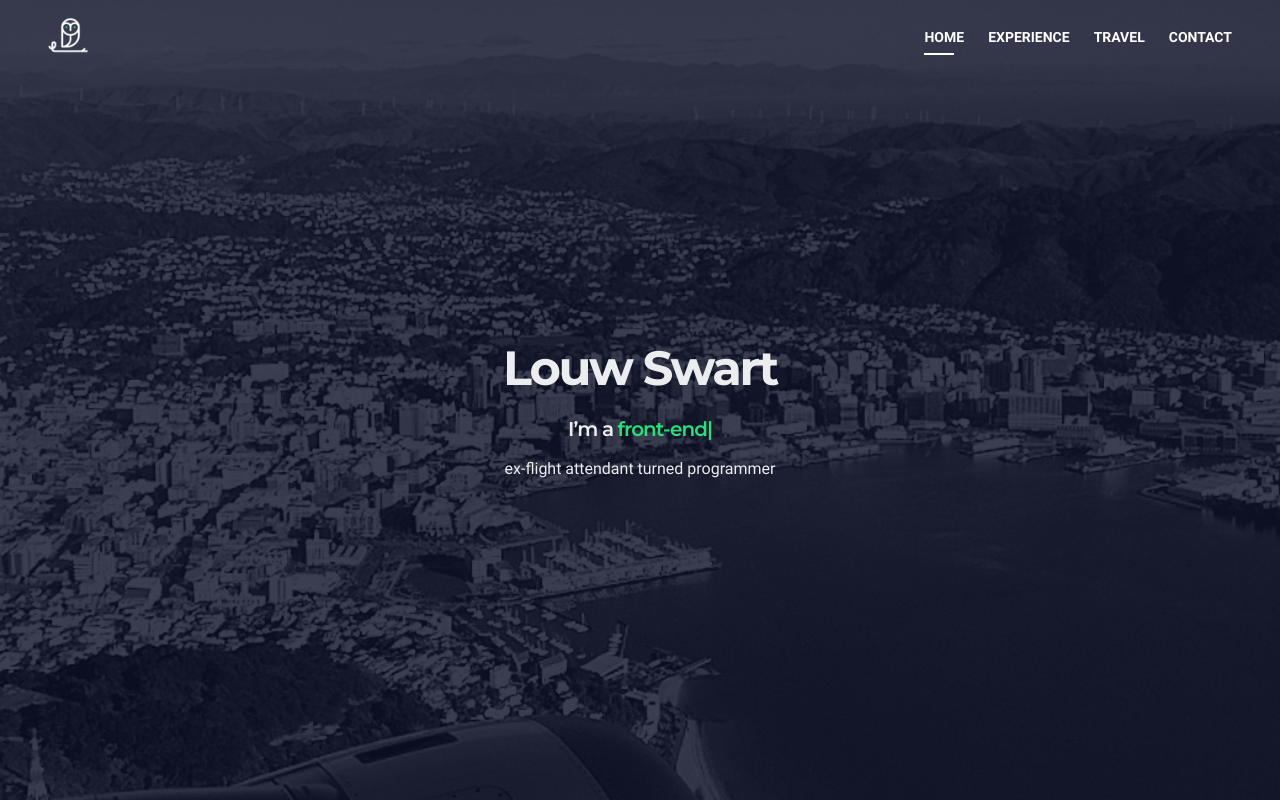
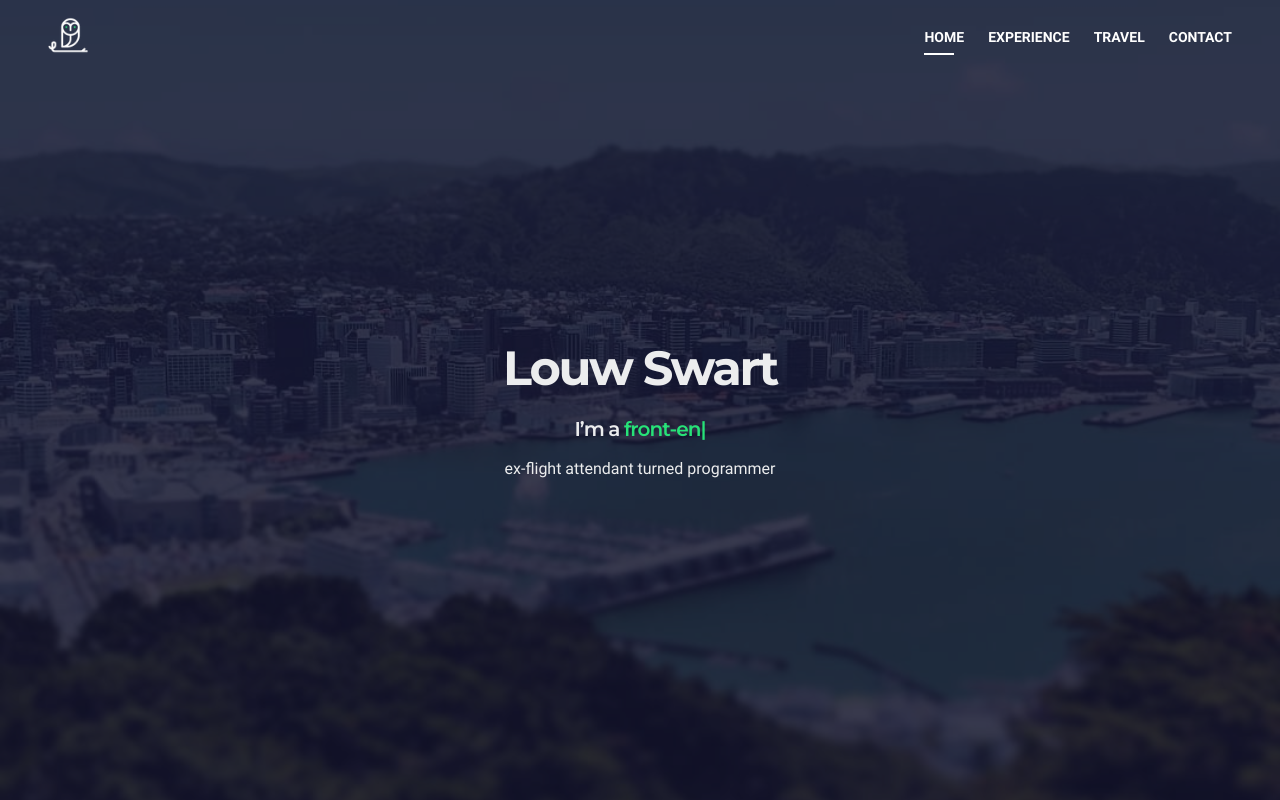
Update footer layout. (#37)
* Update footer layout.

* Add social icons.

* Updates to last updated position

* Update OG image

diff --git a/components/footer/Footer.tsx b/components/footer/Footer.tsx
@@ -1,16 +1,37 @@
-import { Container, Link, Row, Text } from '@nextui-org/react';
+import { Container, Link, Row, Text, styled } from '@nextui-org/react';
+import dynamic from 'next/dynamic';
 import Image from 'next/image';
 import NextLink from 'next/link';
 import { useRouter } from 'next/router';
 import { FC } from 'react';
 import { Copyright } from '@components/footer';
 import { Logo } from '@components/shared';
+import { socialLinks } from '@fixtures/footer';
 import buildTimeConfig from '@fixtures/generated/build-time-config.json';
 import { menuItems } from '@fixtures/nav';
+import { SocialLink } from '@fixtures/types';
 import { useScrollTo } from '@hooks';
 import { usePortfolioState } from '@state/context';
-import { footerBackground, footerMenuItems } from '@styles/footer';
+import {
+  footerBackground,
+  footerContainer,
+  footerLastUpdated,
+  footerLines,
+  footerLinks,
+  footerLinksContainer,
+  footerLowerBackground,
+} from '@styles/footer';
 import { waveWrapper } from '@styles/shared';
+
+const DynamicFontAwesomeIcon = dynamic(
+  () =>
+    import('@fortawesome/react-fontawesome').then(mod => mod.FontAwesomeIcon),
+  {
+    ssr: false,
+  }
+);
+
+const FooterLines = styled('div', footerLines);
 
 export const Footer: FC = (): JSX.Element => {
   const {
@@ -43,22 +64,17 @@ export const Footer: FC = (): JSX.Element => {
         />
       </Row>
       <Row css={footerBackground}>
-        <Container
-          as='div'
-          css={{
-            fontFamily: '$sansHeading',
-            p: 'calc(3 * $md)',
-            ta: 'center',
-          }}>
+        <Container as='div' css={footerContainer}>
           <Container>
             <Logo />
           </Container>
-          <Container css={footerMenuItems}>
+          <FooterLines css={{ mt: '$xl' }} />
+          <Container css={footerLinksContainer}>
             {menuItems.map(({ href, text }, idx) => (
               <NextLink href={href} key={idx} passHref>
                 <Link
                   css={{
-                    color: '$white',
+                    ...footerLinks,
                     fontWeight: pathname === href ? 'bold' : 'normal',
                   }}
                   onClick={scrollToTop}>
@@ -67,19 +83,33 @@ export const Footer: FC = (): JSX.Element => {
               </NextLink>
             ))}
           </Container>
-          <Container css={{ p: '$lg 0' }}>
+          <FooterLines css={{ mb: '$lg' }} />
+          <Container css={{ ...footerLinksContainer, pb: 0 }}>
+            {socialLinks.map(({ icon, title, url }: SocialLink) => (
+              <Link
+                css={footerLinks}
+                href={url}
+                key={url}
+                rel='noopener noreferrer'
+                target='_blank'
+                title={title}>
+                <DynamicFontAwesomeIcon height={20} icon={icon} width={20} />
+              </Link>
+            ))}
+          </Container>
+        </Container>
+      </Row>
+      <Row css={footerLowerBackground}>
+        <Container
+          as='div'
+          css={{
+            ...footerContainer,
+            p: '$md',
+          }}>
+          <Container css={{ pt: '$xs' }}>
             <Copyright />
           </Container>
-          <Text
-            css={{
-              color: '$silver',
-              fs: '$xs',
-              left: '$lg',
-              opacity: 0.6,
-              position: 'absolute',
-            }}>
-            Updated: {lastModified}
-          </Text>
+          <Text css={footerLastUpdated}>Updated: {lastModified}</Text>
         </Container>
       </Row>
     </footer>

diff --git a/styles/footer.ts b/styles/footer.ts
@@ -4,10 +4,55 @@ export const footerBackground: CSS = {
   bgColor: '$blackRussian',
 };
 
-export const footerMenuItems: CSS = {
+export const footerLowerBackground: CSS = {
+  bgColor: '$blackRussianDarker',
+};
+
+export const footerContainer: CSS = {
+  fontFamily: '$sansHeading',
+  pb: 'calc(3 * $md)',
+  ta: 'center',
+};
+
+export const footerLastUpdated: CSS = {
+  color: '$silver',
+  fs: '$xs',
+  mb: 0,
+  ml: 'auto',
+  mr: 'auto',
+  opacity: 0.6,
+};
+
+export const footerLines: CSS = {
+  '@xs': {
+    ml: 'auto',
+    mr: 'auto',
+    w: '50%',
+  },
+  borderTop: '1px solid $silver',
+  opacity: 0.5,
+};
+
+export const footerLinksContainer: CSS = {
   columnGap: '$md',
   dflex: 'center',
   fd: 'row',
   p: '$lg 0',
   rowGap: '$md',
+};
+
+export const footerLinks: CSS = {
+  '&:hover': {
+    color: '$shamrock',
+  },
+  color: '$white',
+};
+
+export const footerCopyright: CSS = {
+  color: '$shamrock',
+  d: 'inline-block',
+  pl: '$sm',
+  svg: {
+    d: 'inline-block',
+  },
 };

diff --git a/components/footer/Copyright.tsx b/components/footer/Copyright.tsx
@@ -1,18 +1,17 @@
 import { Container, Link, Text } from '@nextui-org/react';
 import { format } from 'date-fns';
 import { FC, useState } from 'react';
+import { footerCopyright } from '@styles/footer';
 
 export const Copyright: FC = (): JSX.Element => {
   const [date] = useState<Date>(new Date());
 
   return (
     <Container css={{ d: 'flex', fd: 'row', jc: 'center' }}>
-      <Text>
+      <Text css={{ mb: '$xs' }}>
         © 2014 - {format(date, 'yyyy')}{' '}
         <Link
-          css={{
-            color: '$shamrock',
-          }}
+          css={footerCopyright}
           href='https://github.com/henetiriki'
           isExternal
           rel='noopener noreferrer'

diff --git a/fixtures/footer.ts b/fixtures/footer.ts
@@ -1,0 +1,24 @@
+import {
+  faGithub,
+  faInstagram,
+  faLinkedin,
+} from '@fortawesome/free-brands-svg-icons';
+import { SocialLink } from '@fixtures/types';
+
+export const socialLinks: SocialLink[] = [
+  {
+    icon: faGithub,
+    title: 'See examples of my code here',
+    url: 'https://github.com/henetiriki',
+  },
+  {
+    icon: faLinkedin,
+    title: 'See my LinkedIn here',
+    url: 'https://nz.linkedin.com/in/louwswart/',
+  },
+  {
+    icon: faInstagram,
+    title: 'See my Instagram here',
+    url: 'https://instagram.com/henetiriki',
+  },
+];

diff --git a/fixtures/types.ts b/fixtures/types.ts
@@ -1,3 +1,5 @@
+import { IconDefinition } from '@fortawesome/free-solid-svg-icons';
+
 export type ErrorMessage = {
   code: string;
   message: JSX.Element;
@@ -39,4 +41,10 @@ export type School = {
     from: number;
     to: number;
   };
+};
+
+export type SocialLink = {
+  icon: IconDefinition;
+  title: string;
+  url: string;
 };

diff --git a/styles/shared/theme.ts b/styles/shared/theme.ts
@@ -11,6 +11,7 @@ export const colors = {
   paynesGrey: '#3b3d53',
   valhalla: '#252740',
   blackRussian: '#080a20',
+  blackRussianDarker: '#050615',
   pumpkin: '#ff7917',
   corn: '#f5eb67',
   pineGreen: '#00786d',
